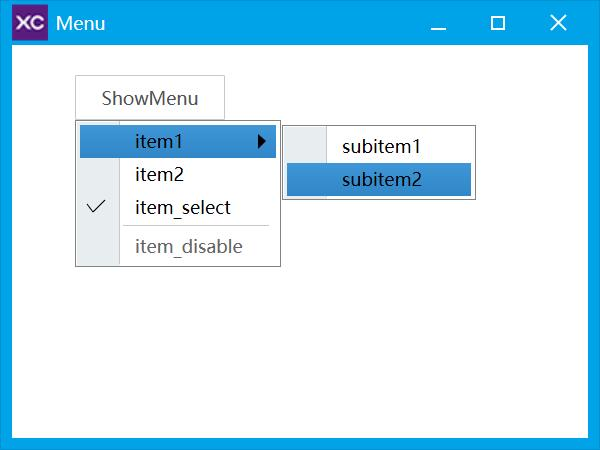
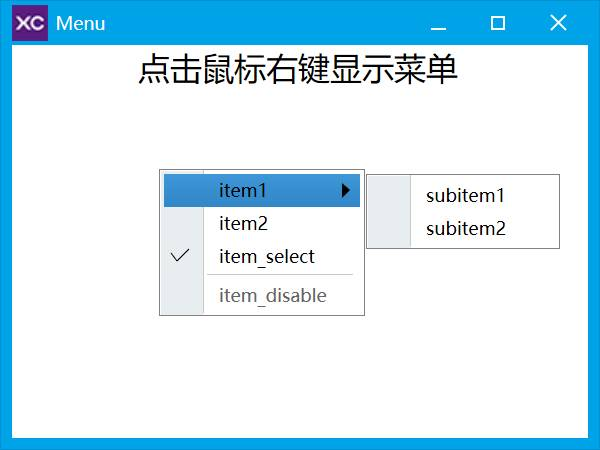
菜单

Changed region(s): [[0.12, 0.1244, 0.84, 0.7156], [0.03, 0.0311, 0.09, 0.0933], [0.12, 0.0311, 0.15, 0.0622]]

diff --git a/Menu/Menu.go b/Menu/Menu.go
@@ -1,9 +1,10 @@
-// 菜单. 默认的菜单并不好看, 好看的可参考DrawMenu例子, 但那个不熟练的话又不好理解.
-// 用无边框窗口里放按钮来做菜单会更方便美化, 也比自绘好理解一些, 也是一个常用的做法.
+// 菜单. 默认的菜单并不好看, 好看的可参考 DrawMenu 例子, 但那个不熟练的话又不好理解.
+// 用窗口放按钮来做菜单会更方便美化, 也比自绘好理解一些, 也是一个常用的做法.
 package main
 
 import (
 	"fmt"
+
 	"github.com/twgh/xcgui/wapi"
 
 	"github.com/twgh/xcgui/app"
@@ -14,10 +15,6 @@ import (
 )
 
 var (
-	a   *app.App
-	w   *window.Window
-	btn *widget.Button
-
 	item_selected = true // 控制item_select是否选中
 )
 
@@ -33,23 +30,27 @@ const (
 
 func main() {
 	// 1.初始化UI库
-	a = app.New(true)
-	a.EnableDPI(true)
-	a.EnableAutoDPI(true)
-	// 2.创建窗口
-	w = window.New(0, 0, 400, 300, "Menu", 0, xcc.Window_Style_Default)
+	app.InitOrExit()
+	a := app.New(true)
+	a.EnableAutoDPI(true).EnableDPI(true)
 
-	// 创建一个按钮
-	btn = widget.NewButton(50, 50, 100, 30, "ShowMenu", w.Handle)
-	// 注册按钮被单击事件
-	btn.Event_BnClick(onBnClick)
+	// 2.创建窗口
+	w := window.New(0, 0, 400, 300, "Menu", 0, xcc.Window_Style_Default)
+
+	// 启用窗口布局
+	w.EnableLayout(true)
+	// 水平居中
+	w.SetAlignH(xcc.Layout_Align_Center)
+
+	widget.NewShapeText(0, 0, 400, 30, "点击鼠标右键显示菜单", w.Handle).SetFont(app.NewFont(16).Handle).LayoutItem_SetWidth(xcc.Layout_Size_Auto, 0)
+
+	// 窗口鼠标右键按下事件
+	w.AddEvent_RButtonDown(onWindowRButtonDown)
 
 	// 注册菜单被选择事件
 	w.Event_MENU_SELECT(onMenuSelect)
-
 	// 注册菜单弹出事件
 	w.Event_MENU_POPUP(onMenuPopup)
-
 	// 注册菜单退出事件
 	w.Event_MENU_EXIT(onMenuExit)
 
@@ -62,7 +63,7 @@ func main() {
 }
 
 // 按钮被单击事件
-func onBnClick(pbHandled *bool) int {
+func onWindowRButtonDown(hWindow int, nFlags uint, pPt *xc.POINT, pbHandled *bool) int {
 	// 创建菜单
 	menu := widget.NewMenu()
 	// 一级菜单
@@ -80,14 +81,11 @@ func onBnClick(pbHandled *bool) int {
 	menu.AddItem(subitem1, "subitem1", item1, xcc.Menu_Item_Flag_Normal)
 	menu.AddItem(subitem2, "subitem2", item1, xcc.Menu_Item_Flag_Normal)
 
-	// 获取按钮坐标
-	var rc xc.RECT
-	btn.GetWndClientRectDPI(&rc)
-	// 转换到屏幕坐标
-	pt := wapi.POINT{X: rc.Left, Y: rc.Bottom}
-	wapi.ClientToScreen(w.GetHWND(), &pt)
+	// 获取鼠标光标的位置
+	var pt wapi.POINT
+	wapi.GetCursorPos(&pt)
 	// 弹出菜单
-	menu.Popup(w.GetHWND(), pt.X, pt.Y, 0, xcc.Menu_Popup_Position_Left_Top)
+	menu.Popup(xc.XWnd_GetHWND(hWindow), pt.X, pt.Y, 0, xcc.Menu_Popup_Position_Left_Top)
 	return 0
 }
 
